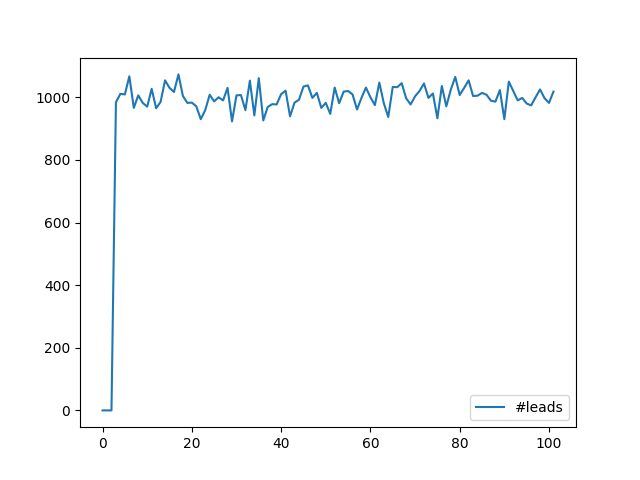
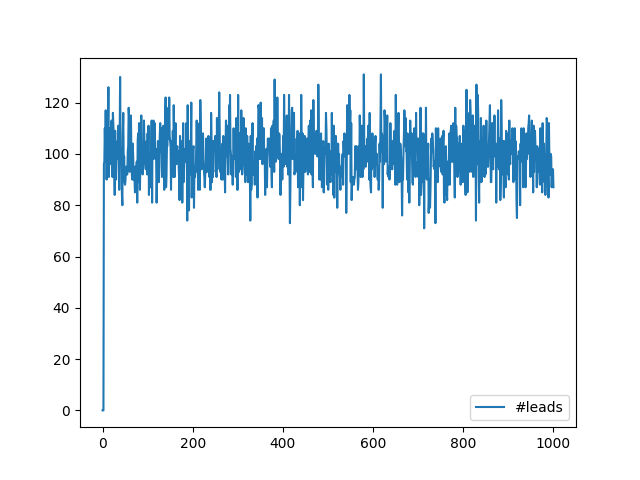
sequential node execution; parallel trials

diff --git a/lottery.py b/lottery.py
@@ -34,6 +34,7 @@ class DarkfiTable:
         restarts = []
         pids = []
         length = len(self.darkies)
+        print('running time: {}'.format(self.running_time))
         while count < self.running_time:
             winners = 0
 
@@ -44,6 +45,15 @@ class DarkfiTable:
             f = self.pid.pid_clipped(feedback, self.controller_type, debug)
             pids += [time.time() - pid_start]
 
+            #####################
+            #note!
+            # thread overhead is 10X slower than than node execution!
+            #####################
+            for i in range(length):
+                self.darkies[i].set_sigma_feedback(self.Sigma, feedback, f)
+                self.darkies[i].run()
+            count+=1
+            '''
             ###
             # spin off threads
             ###
@@ -76,7 +86,7 @@ class DarkfiTable:
                     self.darkies[i].finalize_stake()
             feedback = winners
             assert (feedback <= len(self.darkies))
-            count += 1
+
             finalizations += [time.time() - finalization_start]
 
             ###
@@ -86,14 +96,20 @@ class DarkfiTable:
             for i in range(length):
                 self.darkies[i] = self.darkies[i].clone()
             restarts += [time.time() - restart_start]
+            count += 1
+            '''
+
 
         self.end_time=time.time()
+        '''
         if debug:
             print("pid per slot: {}.".format(str(timedelta(seconds=sum(pids)/len(pids)))))
             print("spin off per slot: {}.".format(str(timedelta(seconds=sum(spinoffs)/len(spinoffs)))))
             print("thread work per slot: {}.".format(str(timedelta(seconds=sum(joins)/len(joins)))))
             print("finalization per slot: {}.".format(str(timedelta(seconds=sum(finalizations)/len(finalizations)))))
             print("restart per slot: {}.".format(str(timedelta(seconds=sum(restarts)/len(restarts)))))
+        '''
+
         return self.pid.acc()
 
     def write(self):

diff --git a/instance.py b/instance.py
@@ -1,14 +1,14 @@
 from lottery import *
 import os
 
-os.system("rm f[0-9]*; rm leads[0-9]*; rm f.hist; rm leads.hist")
+os.system("rm f.hist; rm leads.hist")
 
 RUNNING_TIME = int(input("running time:"))
 
 
 if __name__ == "__main__":
     darkies = []
-    darkies += [Darkie(0) for id in range(random.randint(5,20))]
+    darkies += [Darkie(0) for id in range(1000)]
     airdrop = 0
     for darkie in darkies:
         airdrop+=darkie.stake
